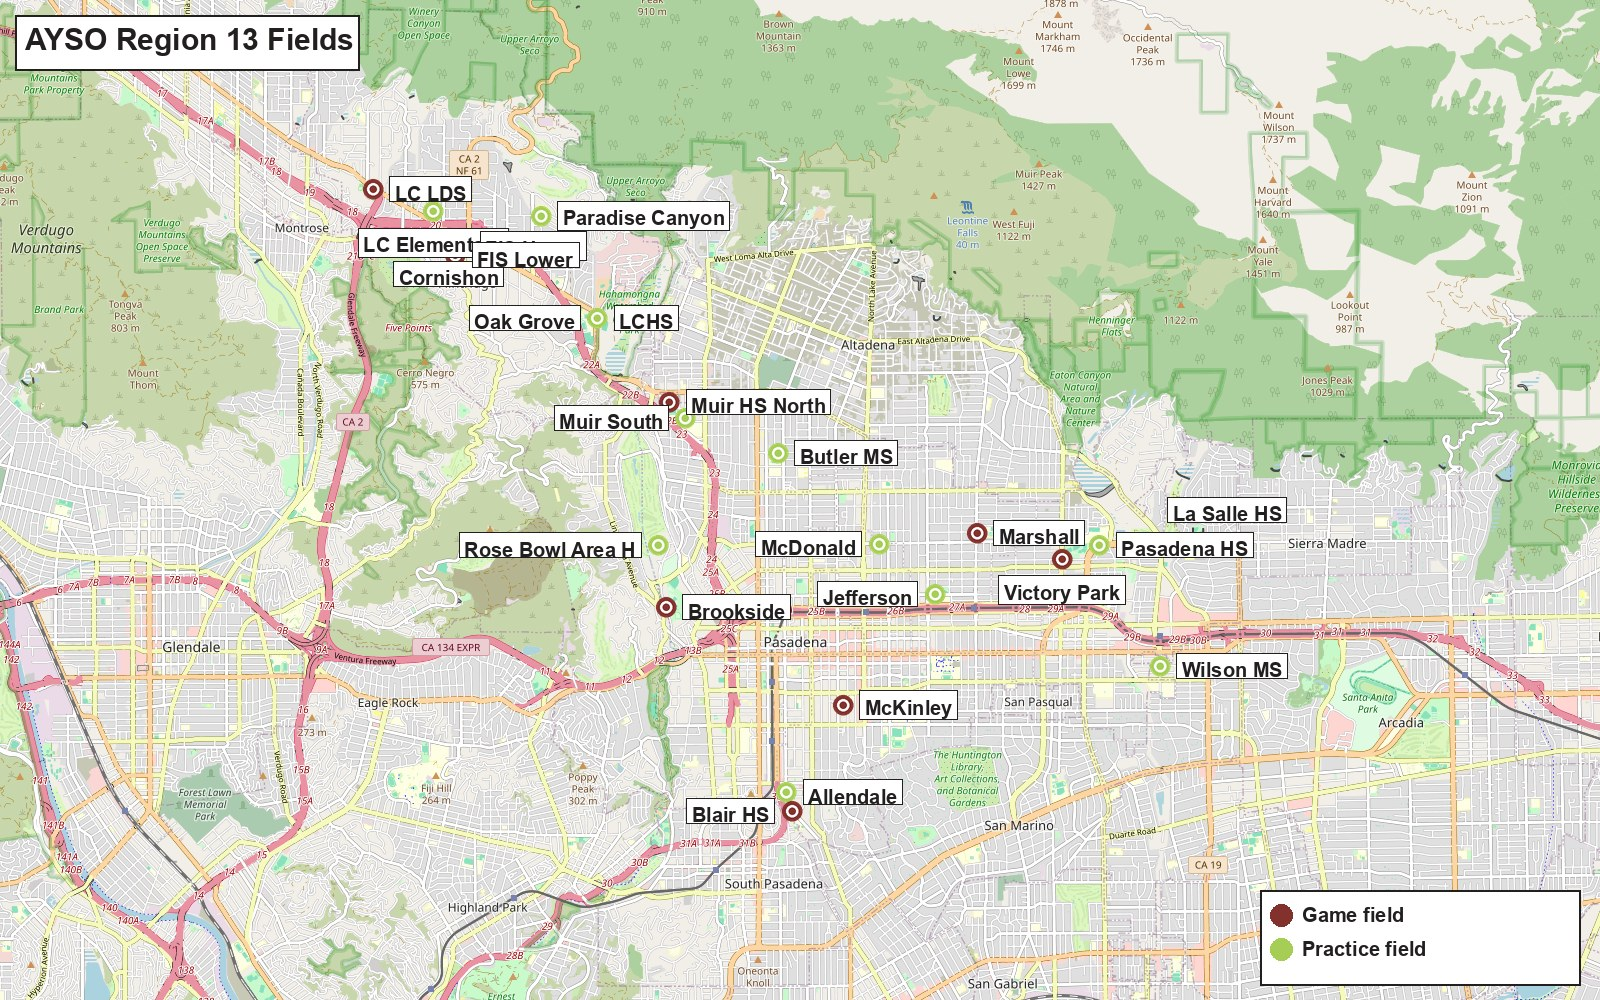
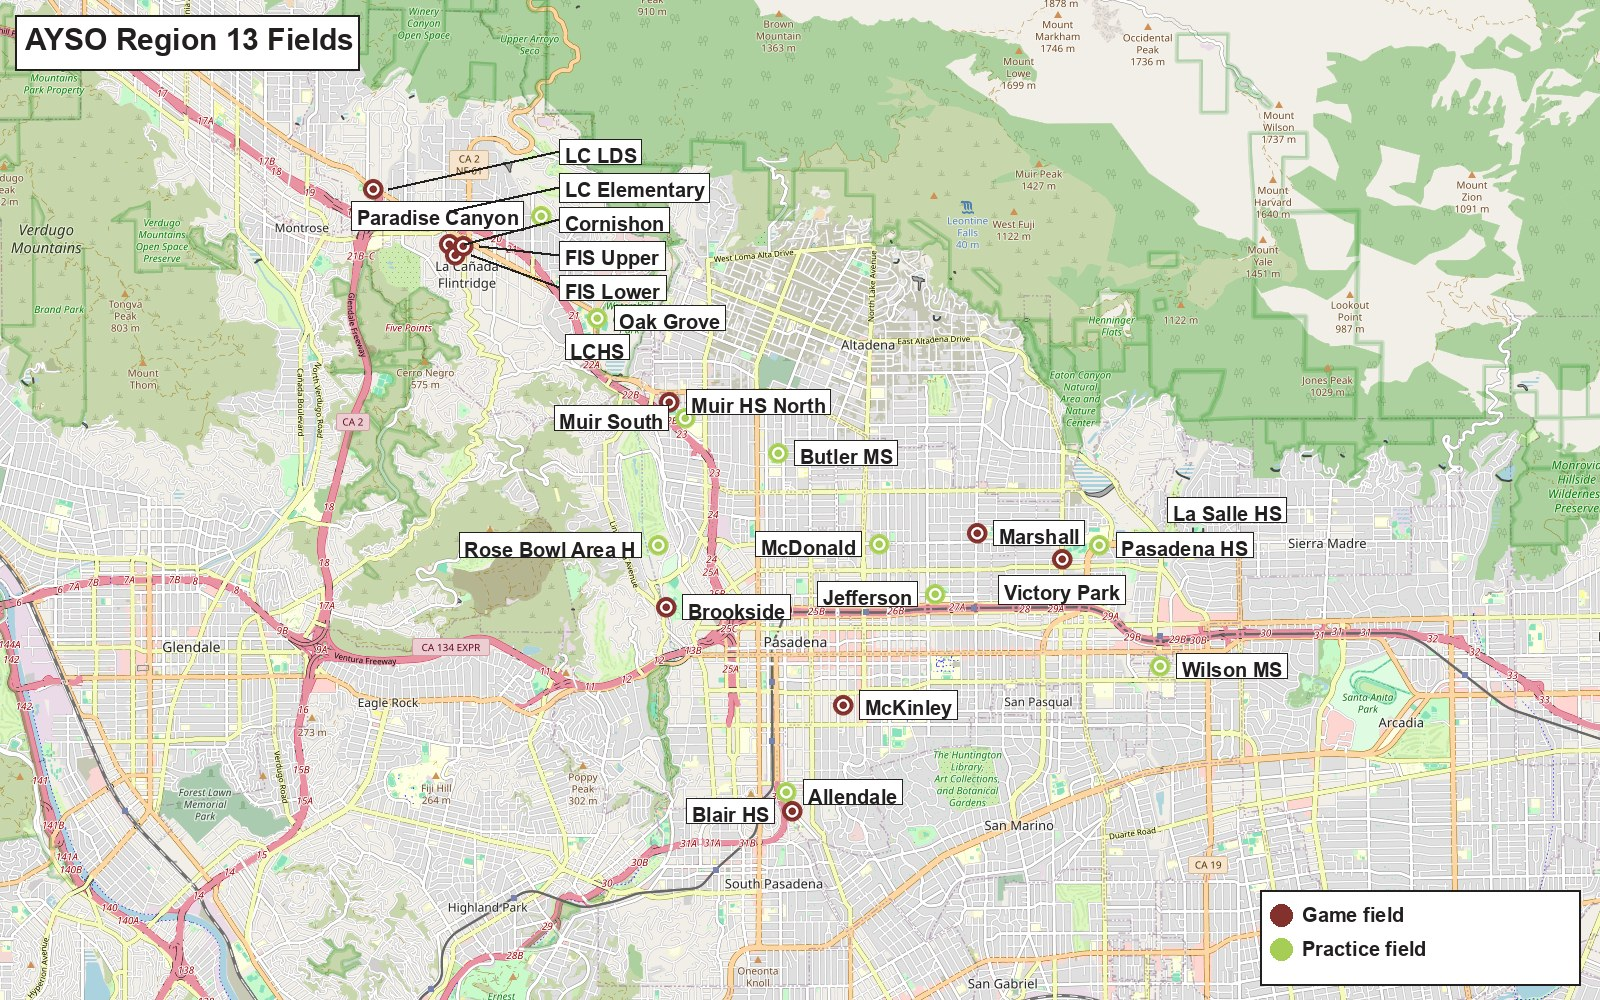
fields/index: drop Notes column from table + cluster leader-lines on map
Table: removed the Notes column per user feedback ("just drop the
notes; they are not useful"). Table is now Field | City | Practice
| Games | Ages -- 5 columns instead of 6.

Map: added leader-line callout for the tight northwest cluster
(LC LDS, LC Elementary, Cornishon, FIS Upper, FIS Lower -- 5 fields
within ~70px of each other on the canvas). Labels for that cluster
are stacked in a column to the right of the markers, with 3px lines
connecting each label to its marker. Other inline labels are
placed around the cluster's reserved guard rectangle so they don't
overlap.

Implementation: union-find groups markers within 70px of any other
marker. Groups with >= 3 members get the column treatment; pairs
and singletons keep inline labels.

Changed region(s): [[0.2188, 0.124, 0.4688, 0.372]]

diff --git a/site/src/fields/index.md b/site/src/fields/index.md
@@ -19,31 +19,31 @@ description: "Field maps and locations for AYSO Region 13 youth soccer in Pasade
 
 ## Field List
 
-| Field | City | Practice | Games | Ages | Notes |
-|---|---|:---:|:---:|---|---|
-| [Allendale Park](/fields/allendale) | Pasadena | ✓ | | | |
-| [Blair High School](/fields/blair) | Pasadena | | ✓ | | Currently a game field only |
-| [Brookside Park](/fields/brookside) | Pasadena | | ✓ | | Next to the Rose Bowl |
-| [Butler Middle School](/fields/butler) | Pasadena | ✓ | | | Enter from Penn St; coach-coded restroom |
-| [Jefferson Park](/fields/jefferson) | Pasadena | ✓ | | | |
-| [La Salle High School](/fields/la-salle) | Pasadena | ✓ | | | |
-| [Marshall Fundamental](/fields/marshall) | Pasadena | | ✓ | 10U, 14U | Game field only |
-| [McDonald Park](/fields/mcdonald) | Pasadena | ✓ | | | |
-| [McKinley](/fields/mckinley) | Pasadena | ✓ | ✓ | | |
-| [Pasadena High School](/fields/pasadena-hs) | Pasadena | ✓ | | | North field |
-| [Rose Bowl Area H](/fields/area-h) | Pasadena | ✓ | | | Mon–Fri, fall season |
-| [Victory Park](/fields/victory) | Pasadena | ✓ | ✓ | 6U–12U | Primary game fields |
-| [Wilson MS](/fields/wilson) | Pasadena | ✓ | | | |
-| [Muir High School North](/fields/muir) | Altadena | | ✓ | 12U | |
-| [Muir South](/fields/muir-south) | Altadena | ✓ | | | |
-| [Cornishon](/fields/cornishon) | La Cañada | | ✓ | 6U–8U | |
-| [FIS Lower](/fields/fis-lower/) | La Cañada | ✓ | ✓ | 12U | Foothill Intermediate School |
-| [FIS Upper](/fields/fis-upper/) | La Cañada | ✓ | ✓ | 6U–8U | Foothill Intermediate School |
-| [La Cañada Elementary](/fields/la-canada-elementary/) | La Cañada | ✓ | | | Fall season only |
-| [La Cañada High School (LCHS)](/fields/lchs) | La Cañada | ✓ | ✓ | | JV Baseball Field has lights |
-| [LC LDS](/fields/lc-lds) | La Cañada | ✓ | ✓ | 6U–8U | |
-| [Oak Grove](/fields/oak-grove) | La Cañada | ✓ | | | |
-| [Paradise Canyon](/fields/paradise) | La Cañada | ✓ | | | |
+| Field | City | Practice | Games | Ages |
+|---|---|:---:|:---:|---|
+| [Allendale Park](/fields/allendale) | Pasadena | ✓ | | |
+| [Blair High School](/fields/blair) | Pasadena | | ✓ | |
+| [Brookside Park](/fields/brookside) | Pasadena | | ✓ | |
+| [Butler Middle School](/fields/butler) | Pasadena | ✓ | | |
+| [Jefferson Park](/fields/jefferson) | Pasadena | ✓ | | |
+| [La Salle High School](/fields/la-salle) | Pasadena | ✓ | | |
+| [Marshall Fundamental](/fields/marshall) | Pasadena | | ✓ | 10U, 14U |
+| [McDonald Park](/fields/mcdonald) | Pasadena | ✓ | | |
+| [McKinley](/fields/mckinley) | Pasadena | ✓ | ✓ | |
+| [Pasadena High School](/fields/pasadena-hs) | Pasadena | ✓ | | |
+| [Rose Bowl Area H](/fields/area-h) | Pasadena | ✓ | | |
+| [Victory Park](/fields/victory) | Pasadena | ✓ | ✓ | 6U–12U |
+| [Wilson MS](/fields/wilson) | Pasadena | ✓ | | |
+| [Muir High School North](/fields/muir) | Altadena | | ✓ | 12U |
+| [Muir South](/fields/muir-south) | Altadena | ✓ | | |
+| [Cornishon](/fields/cornishon) | La Cañada | | ✓ | 6U–8U |
+| [FIS Lower](/fields/fis-lower/) | La Cañada | ✓ | ✓ | 12U |
+| [FIS Upper](/fields/fis-upper/) | La Cañada | ✓ | ✓ | 6U–8U |
+| [La Cañada Elementary](/fields/la-canada-elementary/) | La Cañada | ✓ | | |
+| [La Cañada High School (LCHS)](/fields/lchs) | La Cañada | ✓ | ✓ | |
+| [LC LDS](/fields/lc-lds) | La Cañada | ✓ | ✓ | 6U–8U |
+| [Oak Grove](/fields/oak-grove) | La Cañada | ✓ | | |
+| [Paradise Canyon](/fields/paradise) | La Cañada | ✓ | | |
 
 ## Contacts
 
